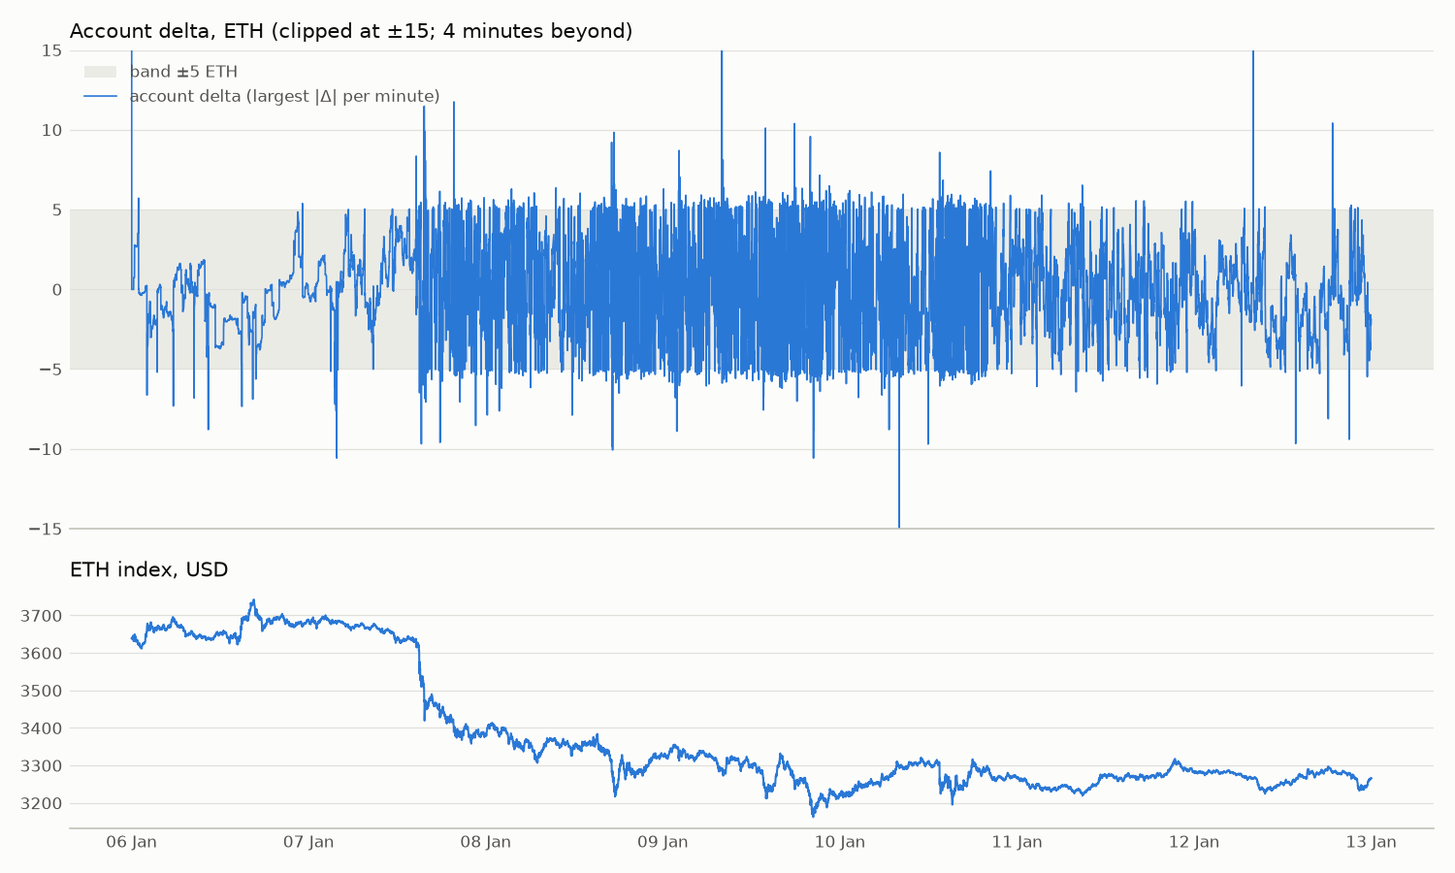
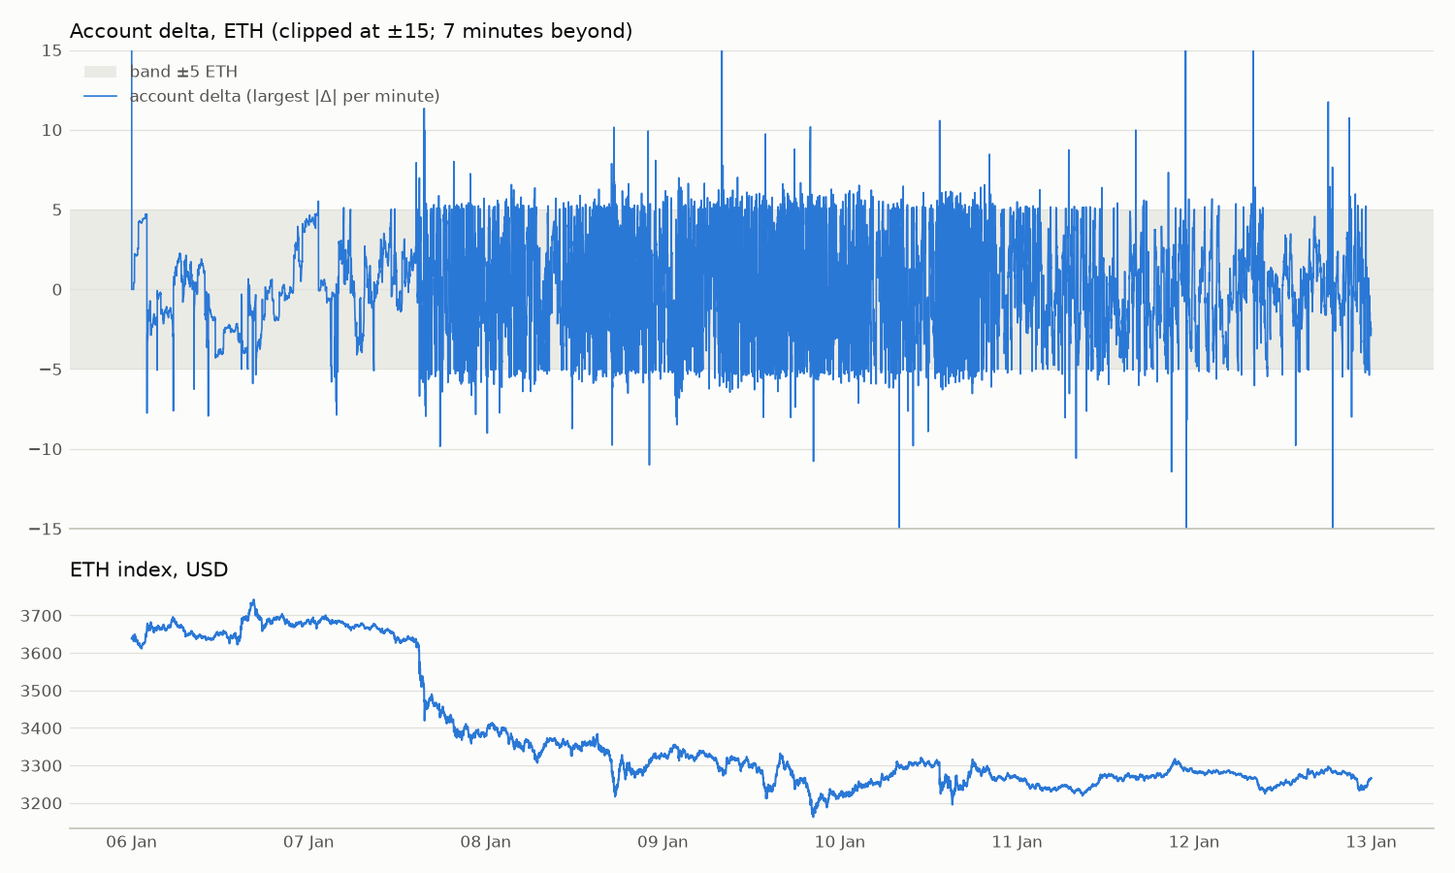
hedging: smile-adjusted (sticky-moneyness) delta, D038; markouts locate the stress loss in adverse selection (D037 update)

Changed region(s): [[0.092, 0.1867, 0.9507, 0.5289], [0.8893, 0.1556, 0.92, 0.1867], [0.1533, 0.4356, 0.184, 0.4667]]

diff --git a/tests/test_sim.py b/tests/test_sim.py
@@ -165,8 +165,8 @@ def _with_quoting(cfg, **upd):
     return cfg.model_copy(update={"quoting": cfg.quoting.model_copy(update=upd)})
 
 
-def _market(cfg, vol=VOL, extra_refit_skip=()):
-    """Flat 60% smile, forward = index = 3000, refits every 5 min."""
+def _market(cfg, vol=VOL, extra_refit_skip=(), b=0.0, rho=0.0):
+    """60% ATM smile (flat unless b > 0), forward = index = 3000, refits every 5 min."""
     step = cfg.surface.refit_interval_s
     grid = pd.date_range(START, END, freq=f"{step}s")
     t_ref = (EXP - grid).total_seconds() / (365 * 86400)
@@ -177,9 +177,9 @@ def _market(cfg, vol=VOL, extra_refit_skip=()):
             "expiry": EXP,
             "t_ref": t_ref[live],
             "kind": "full",
-            "a": vol**2 * t_ref[live],
-            "b": 0.0,
-            "rho": 0.0,
+            "a": vol**2 * t_ref[live] - b * 0.1,  # w(0) = vol^2 t_ref (m = 0, s = 0.1)
+            "b": b,
+            "rho": rho,
             "m": 0.0,
             "s": 0.1,
         }
@@ -478,3 +478,51 @@ def test_book_delta_matches_bump_and_revalue_on_a_flat_smile(cfg):
     bump = (w(s + 0.5) - w(s - 0.5)) / 1.0
     assert acct.eth + od.total(acct, ts, s) == pytest.approx(bump, rel=1e-6)
     assert od.n_missing == 0
+
+
+@pytest.mark.parametrize("mode", ["smile", "black"])
+def test_book_delta_matches_its_own_bump_on_a_skewed_smile(cfg, mode):
+    # smile delta = bump with the smile read at the new moneyness (sticky moneyness, D038);
+    # black delta = bump with each option's vol frozen
+    from mm.pricing.black76 import price_eth
+    from mm.pricing.time import MS_PER_YEAR
+    from mm.sim.delta import OptionDelta, option_value_eth
+    from mm.sim.engine import _Meta
+
+    book, curve = _market(cfg, b=0.004, rho=-0.6)  # steep put skew
+    acct = Account(3.0)
+    acct.option_fill(0, "ETH-10JAN25-2700-P", "buy", 9.0, 0.02, 0.0)
+    acct.option_fill(0, "ETH-10JAN25-3300-C", "sell", 6.0, 0.02, 0.0)
+    ts, s = _ms1("2025-01-07 12:00"), 3050.0
+    od = OptionDelta(book, curve, _Meta(), mode)
+    d = acct.eth + od.total(acct, ts, s)
+    if mode == "smile":
+
+        def w(x):
+            return x * (acct.eth + option_value_eth(od, acct, ts, x))
+    else:
+        f0 = od._basis * s
+        xx = np.log(od._k / f0) - od._m
+        sig0 = np.sqrt((od._a + od._b * (od._rho * xx + np.sqrt(xx * xx + od._s**2))) / od._tref)
+        t = (od._exp - ts) / MS_PER_YEAR
+
+        def w(x):
+            return x * (acct.eth + float(np.dot(od._n, price_eth(od._basis * x, od._k, t, sig0,
+                                                                  ~od._put))))  # fmt: skip
+
+    assert d == pytest.approx((w(s + 0.05) - w(s - 0.05)) / 0.1, rel=1e-5)
+
+
+def test_smile_term_makes_a_risk_reversal_longer_delta(cfg):
+    # long put wing + short call wing on a put-skewed smile: smile delta > black delta
+    from mm.sim.delta import OptionDelta
+    from mm.sim.engine import _Meta
+
+    book, curve = _market(cfg, b=0.004, rho=-0.6)
+    acct = Account(0.0)
+    acct.option_fill(0, "ETH-10JAN25-2700-P", "buy", 9.0, 0.02, 0.0)
+    acct.option_fill(0, "ETH-10JAN25-3300-C", "sell", 6.0, 0.02, 0.0)
+    ts = _ms1("2025-01-07 12:00")
+    smile = OptionDelta(book, curve, _Meta(), "smile").total(acct, ts, 3050.0)
+    black = OptionDelta(book, curve, _Meta(), "black").total(acct, ts, 3050.0)
+    assert smile > black

diff --git a/src/mm/sim/delta.py b/src/mm/sim/delta.py
@@ -1,8 +1,12 @@
 """Option-book delta, fast enough to evaluate at every perpetual print.
 
-delta_options = sum n_i x Black delta_i, with F_i = basis_i x S and sigma_i from the
-expiry's latest live slice at the current moneyness k = ln(K/F) (sticky moneyness between
-refits, as for quotes, D029). Per-position inputs (basis, slice) are rebuilt when the
+delta_options = sum n_i x delta_i, with F_i = basis_i x S and sigma_i from the expiry's
+latest live slice at the current moneyness k = ln(K/F) (sticky moneyness between refits,
+as for quotes and valuation, D029). The delta is consistent with that model (D038):
+    delta_i = N(d1) [- 1 for puts]  -  phi(d1) sqrt(T) sigma'(k)
+the second term being vega x dsigma/dS with dk/dS = -1/S (the S/F factors cancel), and
+sigma'(k) = w'(k) / (2 sigma t_ref), w'(k) = b (rho + (k-m)/sqrt((k-m)^2 + s^2)).
+mode="black" drops the smile term. Per-position inputs (basis, slice) are rebuilt when the
 book changes or a new refit becomes available; between rebuilds only S and T move.
 Only information before t is used: the refit is the latest at or before t (it uses marks
 before its stamp) and the basis comes from forwards strictly before t.
@@ -20,8 +24,10 @@ RAW = ("a", "b", "rho", "m", "s")
 
 
 class OptionDelta:
-    def __init__(self, book, curve, meta):
-        self.book, self.curve, self.meta = book, curve, meta
+    def __init__(self, book, curve, meta, mode: str = "smile"):
+        if mode not in ("smile", "black"):
+            raise ValueError(f"unknown delta mode {mode!r}")
+        self.book, self.curve, self.meta, self.mode = book, curve, meta, mode
         self.dirty = True
         self.refit = None
         self.n_missing = 0  # positions with no slice/forward at the last rebuild
@@ -65,11 +71,17 @@ class OptionDelta:
         f = self._basis * s_usd
         lk = np.log(self._k / f)
         x = lk - self._m
-        w = self._a + self._b * (self._rho * x + np.sqrt(x * x + self._s * self._s))
+        r = np.sqrt(x * x + self._s * self._s)
+        w = self._a + self._b * (self._rho * x + r)
         sig = np.sqrt(np.maximum(w, 0.0) / self._tref)
         t = (self._exp - ts_ms) / MS_PER_YEAR
-        sd = sig * np.sqrt(np.maximum(t, 1e-12))
-        d = ndtr((-lk + 0.5 * sd * sd) / sd) - self._put
+        rt = np.sqrt(np.maximum(t, 1e-12))
+        sd = sig * rt
+        d1 = (-lk + 0.5 * sd * sd) / sd
+        d = ndtr(d1) - self._put
+        if self.mode == "smile":
+            dsig_dk = self._b * (self._rho + x / r) / (2.0 * sig * self._tref)
+            d = d - np.exp(-0.5 * d1 * d1) / np.sqrt(2.0 * np.pi) * rt * dsig_dk
         return float(np.dot(self._n, d))
 
 

diff --git a/src/mm/sim/engine.py b/src/mm/sim/engine.py
@@ -163,7 +163,7 @@ def run(inp: SimInputs, cfg: Config) -> SimResult:
     acct = Account(sc.initial_eth)
     qbook = QuoteBook(sc.latency_ms)
     meta = _Meta()
-    odelta = OptionDelta(inp.book, inp.curve, meta)
+    odelta = OptionDelta(inp.book, inp.curve, meta, cfg.hedging.delta)
     skips: Counter = Counter()
     lim: Counter = Counter()
     fills, daily, hedges, quotes = [], [], [], []

diff --git a/src/mm/config.py b/src/mm/config.py
@@ -177,6 +177,7 @@ class QuotingConfig(_Strict):
 
 
 class HedgingConfig(_Strict):
+    delta: Literal["smile", "black"] = "smile"  # D038
     delta_band_eth: float = Field(gt=0)
     hedge_cost_bps: float = Field(ge=0)
 

diff --git a/reports/sim_2025-01-27_2025-02-10.md b/reports/sim_2025-01-27_2025-02-10.md
@@ -22,22 +22,22 @@ Fill rule: strict (D003), size = min(trade, quote) × 0.5
 - Net book vega seen at fills: -2,063 to 2,000
   USD per vol point; median quote size 25 contracts
 - Accounting invariants: checked after every event and audited at the end (passed)
-- ETH balance: 50 → 21.2839; open positions at end:
+- ETH balance: 50 → 22.3475; open positions at end:
   258
 
 Fills from suspect trades: 20; from liquidations: 76.
 
 ## Hedging (perpetual, taker)
 
-- Hedges: 2,868 (205 a day), traded
-  $46.6M of perp; taker fees 8.5631 ETH, slippage
-  1.7126 ETH; 503 triggered by an option fill
-- Wait from decision to same-side print: median 0.24 s,
-  p99 42.9 s, max 133 s
-- |delta| ≤ band (5 ETH): 99.85% of
-  1,884,157 checks, 99.30% of the time; max |delta|
-  135.5 ETH. Largest: 02-05 08:00:15 -135.5; 02-03 08:00:19 +97.5; 02-07 08:00:17 -88.2; 01-27 00:00:00 +50.0; 02-02 08:00:13 -35.3
-- Funding -0.0540 ETH; perp P&L settled -118.7423 ETH
+- Hedges: 3,497 (250 a day), traded
+  $57.8M of perp; taker fees 10.5826 ETH, slippage
+  2.1165 ETH; 466 triggered by an option fill
+- Wait from decision to same-side print: median 0.30 s,
+  p99 49.8 s, max 144 s
+- |delta| ≤ band (5 ETH): 99.81% of
+  1,881,379 checks, 99.02% of the time; max |delta|
+  143.5 ETH. Largest: 02-05 08:00:15 -143.5; 02-03 08:00:19 +96.9; 02-07 08:00:17 -92.9; 02-09 06:50:19 +52.4; 01-27 00:00:00 +50.0
+- Funding -0.0627 ETH; perp P&L settled -115.6506 ETH
 
 ## Limits (vega ±$2,000/vol pt, ±100 contracts)
 
@@ -80,9 +80,9 @@ Fills from suspect trades: 20; from liquidations: 76.
 |---|---|
 | delivery_fee | -0.09242 |
 | fee | -4.74289 |
-| funding | -0.05404 |
-| perp_fee | -8.56307 |
-| perp_pnl | -118.74229 |
+| funding | -0.06266 |
+| perp_fee | -10.58259 |
+| perp_pnl | -115.65058 |
 | premium | +54.19460 |
 | settlement | +49.28403 |
 
@@ -90,17 +90,17 @@ Fills from suspect trades: 20; from liquidations: 76.
 
 | day | eth_balance | options_eth | perp_eth | equity_eth | index_usd | equity_usd | perp_usd | delta_eth | n_positions | n_unvalued |
 |---|---|---|---|---|---|---|---|---|---|---|
-| 2025-01-28 00:00 | 51.0558 | -0.8278 | -0.1090 | 50.1191 | 3,181.8200 | 159,469.9229 | -137,359.0000 | -2.2497 | 71 | 0 |
-| 2025-01-29 00:00 | 52.7310 | -0.9920 | -0.0204 | 51.7186 | 3,076.0400 | 159,088.5054 | -176,712.0000 | -0.6566 | 92 | 0 |
-| 2025-01-30 00:00 | 50.8581 | -0.3986 | 0.0461 | 50.5057 | 3,113.6200 | 157,255.5058 | -64,989.0000 | 2.3332 | 109 | 0 |
-| 2025-01-31 00:00 | 54.7864 | -6.1794 | -0.3513 | 48.2558 | 3,247.6900 | 156,719.7537 | 313,169.0000 | 0.1015 | 131 | 0 |
-| 2025-02-01 00:00 | 57.8472 | -10.2717 | -0.5378 | 47.0377 | 3,299.9000 | 155,219.5476 | 573,364.0000 | -2.2254 | 169 | 0 |
-| 2025-02-02 00:00 | 47.6261 | 3.6030 | -3.3387 | 47.8904 | 3,116.6900 | 149,259.5451 | 736,638.0000 | 0.7850 | 186 | 0 |
-| 2025-02-03 00:00 | 42.0528 | 5.8932 | 0.8508 | 48.7968 | 2,869.3100 | 140,013.2439 | 799,878.0000 | -2.9285 | 236 | 0 |
-| 2025-02-04 00:00 | 15.6808 | 4.1500 | 0.0810 | 19.9118 | 2,882.9500 | 57,404.7003 | 171,623.0000 | -0.4272 | 343 | 0 |
-| 2025-02-05 00:00 | 3.8221 | 13.0763 | -0.0002 | 16.8982 | 2,731.6600 | 46,160.2060 | -38,808.0000 | 0.9685 | 339 | 0 |
-| 2025-02-06 00:00 | 7.6583 | 6.7446 | 0.1627 | 14.5656 | 2,788.3200 | 40,613.5650 | 717,436.0000 | -0.3426 | 300 | 0 |
-| 2025-02-07 00:00 | -9.4760 | 23.5362 | 0.1957 | 14.2559 | 2,687.3800 | 38,311.0334 | 719,789.0000 | -2.0574 | 283 | 0 |
-| 2025-02-08 00:00 | 11.9227 | 2.1845 | -0.0727 | 14.0345 | 2,623.2500 | 36,815.9597 | 838,074.0000 | 1.2751 | 250 | 0 |
-| 2025-02-09 00:00 | 18.3751 | -2.4479 | -0.6200 | 15.3072 | 2,632.2500 | 40,292.3889 | 919,194.0000 | -3.5018 | 256 | 0 |
-| 2025-02-10 00:00 | 21.2839 | -9.4272 | 1.5134 | 13.3701 | 2,627.5300 | 35,130.3908 | 858,269.0000 | -1.1470 | 258 | 0 |
+| 2025-01-28 00:00 | 51.0303 | -0.8278 | -0.1323 | 50.0702 | 3,181.8200 | 159,314.4617 | -127,628.0000 | -2.3539 | 71 | 0 |
+| 2025-01-29 00:00 | 52.6879 | -0.9920 | -0.1026 | 51.5933 | 3,076.0400 | 158,702.9697 | -179,566.0000 | -2.1231 | 92 | 0 |
+| 2025-01-30 00:00 | 50.6163 | -0.3986 | -0.0068 | 50.2110 | 3,113.6200 | 156,337.8229 | -77,091.0000 | -0.8537 | 109 | 0 |
+| 2025-01-31 00:00 | 54.2167 | -6.1794 | -0.2421 | 47.7953 | 3,247.6900 | 155,224.2410 | 273,130.0000 | -1.7853 | 131 | 0 |
+| 2025-02-01 00:00 | 56.1673 | -10.2717 | 0.1442 | 46.0398 | 3,299.9000 | 151,926.6725 | 532,134.0000 | -1.1322 | 169 | 0 |
+| 2025-02-02 00:00 | 48.2999 | 3.6030 | -3.9858 | 47.9170 | 3,116.6900 | 149,342.5298 | 677,566.0000 | -0.5041 | 186 | 0 |
+| 2025-02-03 00:00 | 43.5733 | 5.8932 | 0.8260 | 50.2924 | 2,869.3100 | 144,304.5152 | 776,493.0000 | -2.1068 | 236 | 0 |
+| 2025-02-04 00:00 | 16.5961 | 4.1500 | 0.1261 | 20.8722 | 2,882.9500 | 60,173.5332 | 149,977.0000 | -3.5891 | 343 | 0 |
+| 2025-02-05 00:00 | 4.2110 | 13.0763 | 0.0039 | 17.2912 | 2,731.6600 | 47,233.7172 | -9,453.0000 | 5.4243 | 339 | 0 |
+| 2025-02-06 00:00 | 7.3544 | 6.7446 | 0.1146 | 14.2136 | 2,788.3200 | 39,632.1908 | 761,928.0000 | -1.1235 | 300 | 0 |
+| 2025-02-07 00:00 | -9.4022 | 23.5362 | -0.1284 | 14.0057 | 2,687.3800 | 37,638.5459 | 692,475.0000 | 0.6675 | 283 | 0 |
+| 2025-02-08 00:00 | 6.2655 | 2.1845 | 5.6327 | 14.0827 | 2,623.2500 | 36,942.5525 | 763,025.0000 | -0.5713 | 250 | 0 |
+| 2025-02-09 00:00 | 18.5973 | -2.4479 | -1.3126 | 14.8369 | 2,632.2500 | 39,054.3130 | 817,921.0000 | -1.4749 | 256 | 0 |
+| 2025-02-10 00:00 | 22.3475 | -9.4272 | 0.0160 | 12.9363 | 2,627.5300 | 33,990.4196 | 803,069.0000 | 4.2104 | 258 | 0 |

diff --git a/reports/sim_2025-01-06_2025-01-13.md b/reports/sim_2025-01-06_2025-01-13.md
@@ -22,22 +22,22 @@ Fill rule: strict (D003), size = min(trade, quote) × 0.5
 - Net book vega seen at fills: -802 to 513
   USD per vol point; median quote size 25 contracts
 - Accounting invariants: checked after every event and audited at the end (passed)
-- ETH balance: 50 → 63.2843; open positions at end:
+- ETH balance: 50 → 63.2484; open positions at end:
   192
 
 Fills from suspect trades: 0; from liquidations: 3.
 
 ## Hedging (perpetual, taker)
 
-- Hedges: 1,015 (145 a day), traded
-  $19.2M of perp; taker fees 2.9040 ETH, slippage
-  0.5808 ETH; 109 triggered by an option fill
-- Wait from decision to same-side print: median 0.60 s,
-  p99 64.0 s, max 228 s
-- |delta| ≤ band (5 ETH): 99.82% of
-  575,138 checks, 99.22% of the time; max |delta|
-  110.9 ETH. Largest: 01-10 08:00:16 -110.9; 01-06 00:00:00 +50.0; 01-09 08:00:14 +30.7; 01-12 08:00:24 +21.1; 01-07 19:40:46 +11.7
-- Funding -0.0082 ETH; perp P&L settled -10.4373 ETH
+- Hedges: 1,226 (175 a day), traded
+  $23.4M of perp; taker fees 3.5429 ETH, slippage
+  0.7086 ETH; 112 triggered by an option fill
+- Wait from decision to same-side print: median 0.68 s,
+  p99 78.2 s, max 205 s
+- |delta| ≤ band (5 ETH): 99.79% of
+  574,183 checks, 99.00% of the time; max |delta|
+  112.6 ETH. Largest: 01-10 08:00:16 -112.6; 01-06 00:00:00 +50.0; 01-11 22:51:29 +35.4; 01-09 08:00:14 +30.8; 01-11 22:55:05 -23.7
+- Funding -0.0070 ETH; perp P&L settled -9.8356 ETH
 
 ## Limits (vega ±$2,000/vol pt, ±100 contracts)
 
@@ -80,9 +80,9 @@ Fills from suspect trades: 0; from liquidations: 3.
 |---|---|
 | delivery_fee | -0.01972 |
 | fee | -1.14631 |
-| funding | -0.00823 |
-| perp_fee | -2.90398 |
-| perp_pnl | -10.43734 |
+| funding | -0.00700 |
+| perp_fee | -3.54291 |
+| perp_pnl | -9.83559 |
 | premium | +29.12615 |
 | settlement | -1.32623 |
 
@@ -90,10 +90,10 @@ Fills from suspect trades: 0; from liquidations: 3.
 
 | day | eth_balance | options_eth | perp_eth | equity_eth | index_usd | equity_usd | perp_usd | delta_eth | n_positions | n_unvalued |
 |---|---|---|---|---|---|---|---|---|---|---|
-| 2025-01-07 00:00 | 46.4523 | 2.1697 | 0.0003 | 48.6223 | 3,688.8900 | 179,362.2186 | 248.0000 | -0.3007 | 66 | 0 |
-| 2025-01-08 00:00 | 64.6818 | -13.9630 | -0.0149 | 50.7039 | 3,379.7800 | 171,367.8937 | -58,911.0000 | -2.0467 | 146 | 0 |
-| 2025-01-09 00:00 | 70.2117 | -19.7599 | 0.0001 | 50.4519 | 3,326.6000 | 167,833.2737 | 610.0000 | 1.6516 | 180 | 0 |
-| 2025-01-10 00:00 | 78.3579 | -29.7093 | 0.1690 | 48.8176 | 3,219.0300 | 157,145.1763 | -332,043.0000 | 3.4970 | 197 | 0 |
-| 2025-01-11 00:00 | 64.4115 | -14.8596 | -0.0349 | 49.5170 | 3,266.3600 | 161,740.2311 | 145,429.0000 | 1.5379 | 202 | 0 |
-| 2025-01-12 00:00 | 64.9017 | -15.0539 | -0.0344 | 49.8134 | 3,282.3900 | 163,507.0592 | 150,683.0000 | 2.3167 | 198 | 0 |
-| 2025-01-13 00:00 | 63.2843 | -13.9511 | 0.2073 | 49.5405 | 3,265.7100 | 161,784.7632 | 121,943.0000 | -1.9069 | 192 | 0 |
+| 2025-01-07 00:00 | 46.5927 | 2.1697 | -0.0288 | 48.7336 | 3,688.8900 | 179,772.8031 | 23,937.0000 | 3.9359 | 66 | 0 |
+| 2025-01-08 00:00 | 65.0628 | -13.9630 | -0.0125 | 51.0872 | 3,379.7800 | 172,663.5641 | -90,179.0000 | -1.0475 | 146 | 0 |
+| 2025-01-09 00:00 | 70.4835 | -19.7599 | 0.0072 | 50.7308 | 3,326.6000 | 168,761.2062 | -34,844.0000 | 2.7806 | 180 | 0 |
+| 2025-01-10 00:00 | 78.8313 | -29.7093 | 0.0773 | 49.1993 | 3,219.0300 | 158,374.0788 | -367,404.0000 | 0.1826 | 197 | 0 |
+| 2025-01-11 00:00 | 64.2910 | -14.8596 | -0.0816 | 49.3498 | 3,266.3600 | 161,194.1273 | 142,592.0000 | 5.5180 | 202 | 0 |
+| 2025-01-12 00:00 | 64.5413 | -15.0539 | -0.0197 | 49.4677 | 3,282.3900 | 162,372.3551 | 136,171.0000 | 3.9528 | 198 | 0 |
+| 2025-01-13 00:00 | 63.2484 | -13.9511 | 0.0175 | 49.3147 | 3,265.7100 | 161,047.6627 | 85,469.0000 | -2.4699 | 192 | 0 |

diff --git a/reports/decisions.md b/reports/decisions.md
@@ -370,4 +370,25 @@ Each entry: the choice, the alternative, why, and the parameter's category:
   - **The stress fortnight lost 73% of equity in USD** ($159k → $35k). 3 Feb alone: options +23.6 ETH (premium + settlement + value change), perp hedge −45.9 ETH, fees −5.5 ETH. Two contributors were measured; their split is for the Phase 7 waterfall and markouts:
     1. **Smile delta left unhedged.** On the 2 Feb book, Black delta is +0.8 ETH but the sticky-moneyness bump delta is +18.3 ETH. Between refits Surface A values options at the current moneyness, so a risk-reversal book (long puts, short calls; net vega $352, gross $3,474) has spot exposure that Black delta does not see. CLAUDE.md fixes Black delta; smile-adjusted delta is an extension.
     2. **Crash flow against a stale surface.** 7,716 contracts traded on 3 Feb, half the fortnight, at a surface refitted every 5 minutes from a 60-minute window. The +7.6 ETH "edge" is measured against that same surface, so it may be adverse selection. Delta-hedged markouts will show.
+  - **Update (same day, D038):** contributor 1 was tested by hedging the smile-adjusted delta. It changed almost nothing (equity at end $34.0k vs $35.1k; perp P&L −115.7 vs −118.7 ETH). A quick delta-hedged markout check (fair at Surface A at t + h; hedge = Black delta at fill × spot change) points to contributor 2:
+    - whole fortnight: edge at fill +$40k, markout +$31k at 1 min, −$3.6k at 5 min, **−$87k at 1 h**;
+    - 3 Feb alone: +$19.6k at fill, **−$76.8k at 1 h**, about the whole day's loss.
+  - The stress loss is **adverse selection**: crash-day takers traded against a surface up to 5 minutes stale and were right. The proper markout tables (by horizon, expiry and delta bucket) are Phase 7 work.
 - **Also:** the perp traded at a discount to the index in the crash (median −10 bp at our hedges, p1 −309 bp). Hedge sizes use the index, so this shows up as hedge cost and residual delta.
+
+## D038 — Hedge the smile-adjusted (sticky-moneyness) delta
+- **Category:** from theory (owner decision, 2026-11-10)
+- **Choice:** per-option delta for hedging and account delta:
+  δᵢ = N(d1) [− 1 for puts] − φ(d1)·√T·σ′(k), with σ′(k) = w′(k)/(2σ·t_ref).
+  This is Black delta plus vega × dσ/dS under the sticky-moneyness surface of D029 (dk/dS = −1/S; the S/F factors cancel). `hedging.delta: black` keeps the old rule for comparison.
+- **Alternative:** Black delta only (CLAUDE.md's original rule, then listed as an extension).
+- **Why:**
+  - Quotes and valuation hold the smile fixed in moneyness between refits (D029), so a hedge that holds σ fixed contradicts our own model.
+  - On the 2 Feb 2025 book, Black delta was +0.8 ETH but the bump-and-revalue delta was +18.3 ETH. With the new delta, formula and bump agree exactly (−0.61 vs −0.61, real book; plus a unit test on a skewed smile).
+  - Black delta is still used to *locate* strikes (quoting universe OTM delta, 25-delta RR/BF in Phase 3).
+- **Effect:**
+  - 6–12 Jan: 1,226 hedges (was 1,015), fees 3.54 ETH (was 2.90).
+  - Stress fortnight: 3,497 hedges (was 2,868), equity at end $34.0k (was $35.1k).
+  - |Δ| stays in the band in 99.0% of the time in both runs.
+  - It is the consistent choice, not a fix for the stress loss (see the D037 update).
+- **To test in Phase 7:** whether Deribit's marks actually move closer to sticky moneyness or sticky strike from refit to refit (regress vol changes at fixed k and at fixed K on spot changes). If marks behave like sticky strike, this delta over-hedges.

diff --git a/reports/extensions.md b/reports/extensions.md
@@ -6,15 +6,14 @@ Ideas that are outside the current scope. They go here, not into the code. Each 
 - **Surface B:** a surface fitted to trade IVs, compared with Surface A as a quoting input.
 - **Spread shape:** a calibrated, vega-based spread fitted to effective spreads, with regime-dependent widening.
 - **Risk:** vega buckets by tenor, and a kill switch.
-- **Hedging:** a comparison of hedge policies (fixed interval, Whalley–Wilmott band), smile-adjusted delta, and dated-future hedges for long expiries.
+- **Hedging:** a comparison of hedge policies (fixed interval, Whalley–Wilmott band), and dated-future hedges for long expiries. (Smile-adjusted delta was built in Phase 6, D038.)
 - **Books:** an ETH-denominated book, and BTC as a second underlying.
 - **Signal:** Aave liquidation pressure as an input to skew and spread.
 
 ## Raised during the build
 - **Exchange pauses (Phase 1):** a simulator "pause" mode that drops quotes and forces a surface refit after an exchange-wide pause. H1 2025 had 7 maintenance-like pauses at 09:00 UTC and 1 incident. Build it in Phase 4 if cheap; otherwise state it as a simplification.
 - **Delivery fee (Phase 1):** confirm whether daily options are exempt from the delivery fee (D012). The rate and cap are confirmed.
-- **Smile-adjusted delta (Phase 6):** Black-delta hedging leaves the smile delta of a sticky-moneyness book unhedged: +11.6 ETH on 8 Jan 2025 and +17.5 ETH on 2 Feb 2025 (more than 3× the band). It is large for risk-reversal books (long puts, short calls), which total-vega netting lets build up. It is already a CLAUDE.md extension; Phase 6 measured it (D037).
 - **Risk-reversal / vega-bucket limits (Phase 6):** the total-vega limit nets put vega against call vega. On 2 Feb 2025 the book held +$980 of put vega against −$628 of call vega, for a net $352 but a gross $3,474. A gross-vega or bucketed limit would cap that.
-- **Faster refits in fast markets (Phase 6):** on 3 Feb 2025 we traded 7,716 contracts (half the fortnight) against a surface refitted every 5 minutes from a 60-minute window. An event-triggered refit (e.g. on a large index move) would cut the staleness; markouts in Phase 7 will show whether it matters.
+- **Faster refits in fast markets (Phase 6):** on 3 Feb 2025 we traded 7,716 contracts (half the fortnight) against a surface refitted every 5 minutes from a 60-minute window. The 1-hour delta-hedged markout that day was −$77k against +$20k of edge at fill (D037). An event-triggered refit (e.g. on a large index move), or a spread that widens with realised index moves, would cut the staleness.
 - **Margin (Phase 6):** the ETH balance went negative (−9.5 ETH on 7 Feb 2025) while equity stayed positive. Deribit's margin is not modelled; a margin check or liquidation rule would be needed for a live-like account.
 - **Speed (Phase 6):** about 50 s per simulated week, mostly delta checks at about 80k perp prints a day. A minimum check interval or a gamma-based skip rule would speed this up if Phase 8 needs it.

diff --git a/CLAUDE.md b/CLAUDE.md
@@ -95,7 +95,7 @@ Most bugs here will be silent unit errors.
 - Price off the **forward** F for each expiry using **Black-76, undiscounted**. F = basis × latest index, where basis = mark/index of the matching dated future; for expiries without a future, ln(basis) is interpolated linearly in T between the futures (put-call parity was tested and rejected; decision D017):
   `C = F·N(d1) − K·N(d2)`, `d1 = [ln(F/K) + ½σ²T] / (σ√T)`, `d2 = d1 − σ√T`.
 - **ETH premium = C / F.** (USD discounting is absorbed into F; ETH discounting ≈ 0 on Deribit.) Verify against Deribit mark prices.
-- Black delta `N(d1)` is the per-option delta. Do **not** apply an F/S factor for Deribit's coin-settled options.
+- The per-option hedge delta is the **smile-adjusted** delta consistent with the sticky-moneyness surface: `N(d1) − φ(d1)·√T·∂σ/∂k` (Black delta plus vega·dσ/dS; D038). Do **not** apply an F/S factor for Deribit's coin-settled options.
 - Use Black delta (not premium-adjusted) to locate 25-delta strikes.
 - In code, convert price amounts to vol by exact re-pricing (solve P(σ+δσ) = P(σ) + δP), not the vega approximation.
 
@@ -104,7 +104,7 @@ Most bugs here will be silent unit errors.
 The account holds: ETH balance `B` (collateral, premiums, fees, funding, settled P&L), options `n_i`, and an inverse perpetual with USD notional `Q` entered at `P0`.
 
 - USD value: `W = S·B + Σ n_i·(C_i/F_i)·S + Q·(1/P0 − 1/P)·S`
-- **Account delta (USD per $1 move in ETH):** `Δ_USD = B + Σ n_i·N(d1_i) + Q/P0`
+- **Account delta (USD per $1 move in ETH):** `Δ_USD = B + Σ n_i·δ_i + Q/P0`, δ_i the smile-adjusted delta above (D038)
 - **Hedge trade:** `ΔQ = −S·Δ_USD` (USD notional), converted to perpetual contracts using the contract size from specs, rounded to whole contracts.
 - The premium adjustment happens automatically because premiums flow through `B`. Never also subtract premium from option deltas (no double counting).
 - Unit test: when perpetual P&L is settled into `B` and `P0` resets, total delta is unchanged.
@@ -212,4 +212,4 @@ Work in order. A phase is finished only when every "done when" check passes.
 
 ## Extensions (do not build unless asked)
 
-Surface B (trade-IV surface) compared with Surface A; vega-based calibrated spread form and regime widening; vega buckets by tenor; kill switch; hedge-policy comparison (fixed interval, Whalley–Wilmott band); smile-adjusted delta; dated-future hedging for long expiries; ETH-denominated book; Aave liquidation-pressure signal.
+Surface B (trade-IV surface) compared with Surface A; vega-based calibrated spread form and regime widening; vega buckets by tenor; kill switch; hedge-policy comparison (fixed interval, Whalley–Wilmott band); dated-future hedging for long expiries; ETH-denominated book; Aave liquidation-pressure signal.
